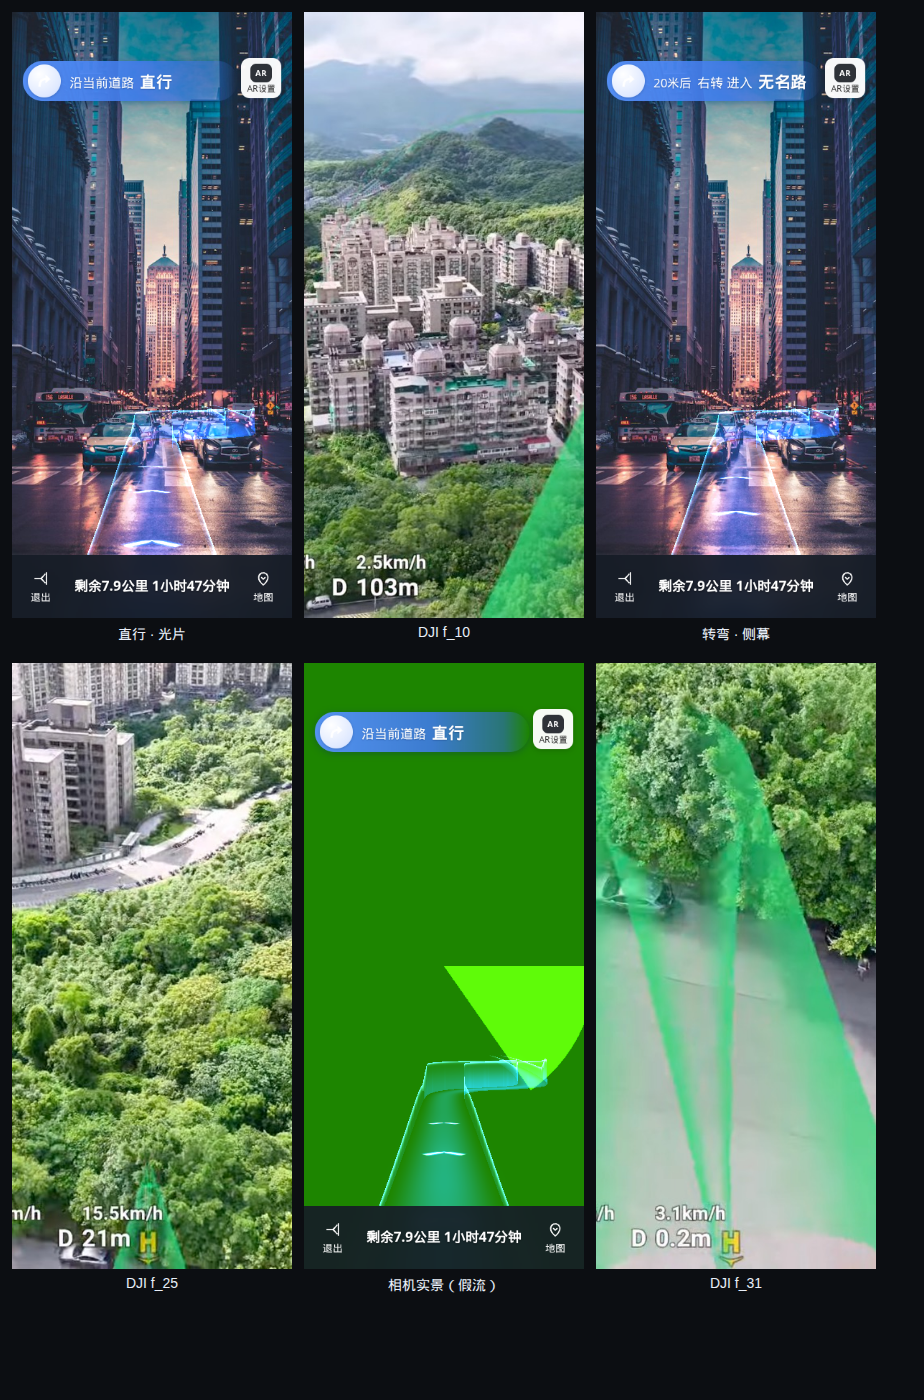
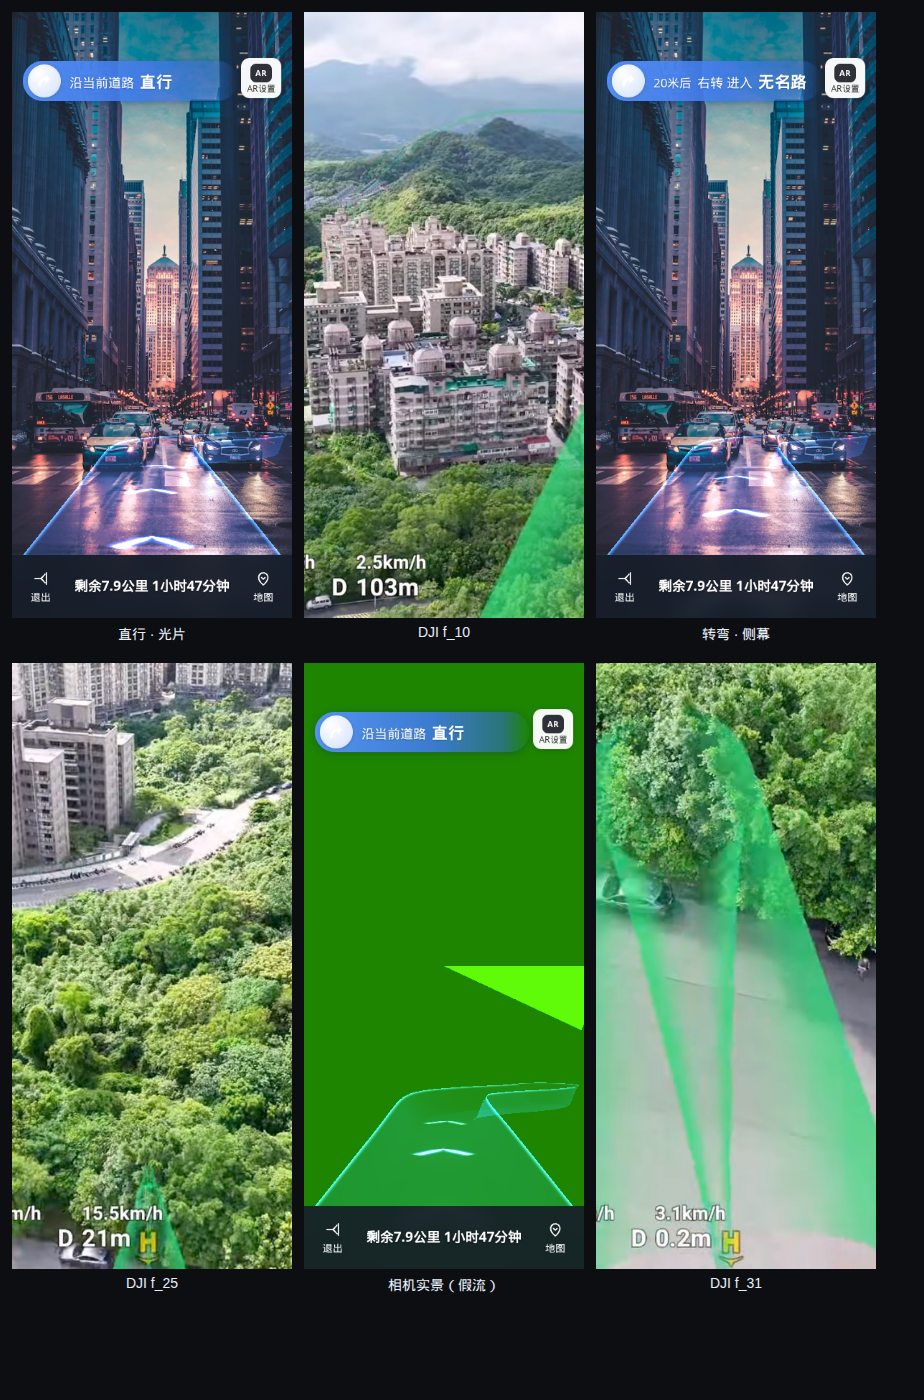
redo7: turn the route into a rounded light channel
Replace the flat ribbon with a shallow U-section tube, wide at the bottom of the frame and closed by a rounded cap where it bends into the cross street. Chevron tips open at about 85 degrees so they read as arrows, not dashes.

Changed region(s): [[0.3333, 0.6757, 0.6364, 0.86], [0.6667, 0.2764, 0.9394, 0.3993], [0.0303, 0.2764, 0.303, 0.3993]]

diff --git a/src/shader.ts b/src/shader.ts
@@ -10,29 +10,23 @@
 import * as THREE from 'three'
 
 const vert = /* glsl */ `
-  attribute float aTurn;
+  attribute float aRim;
   uniform float uReveal;
   varying vec2 vUv;
   varying vec3 vWorldPos;
+  varying vec3 vNormal;
   varying float vDist;
-  varying float vFace;
-  varying float vTurn;
+  varying float vRim;
 
   void main() {
     vUv = uv;
-    vTurn = aTurn;
+    vRim = aRim;
     vec3 p = position;
-    float reveal = clamp(uReveal * 1.3 - vUv.x * 0.3, 0.0, 1.0);
-    // 近处把光幕压矮，避免贴着镜头的侧幕在屏幕上摊成一根粗管；
-    // 走到转弯（十几米外）才升到完整高度。
-    vec4 wp0 = modelMatrix * vec4(position, 1.0);
-    float dist0 = length(cameraPosition - wp0.xyz);
-    float rise = smoothstep(3.5, 14.0, dist0);
-    p.y *= reveal * mix(0.2, 1.0, rise);
+    float reveal = clamp(uReveal * 1.25 - vUv.x * 0.25, 0.0, 1.0);
+    p.y *= reveal;
     vec4 wp = modelMatrix * vec4(p, 1.0);
     vWorldPos = wp.xyz;
-    vec3 n = normalize(mat3(modelMatrix) * normal);
-    vFace = abs(dot(n, normalize(cameraPosition - wp.xyz)));
+    vNormal = normalize(mat3(modelMatrix) * normal);
     vec4 mv = viewMatrix * wp;
     vDist = -mv.z;
     gl_Position = projectionMatrix * mv;
@@ -46,92 +40,33 @@ const frag = /* glsl */ `
   uniform float uOpacity;
   uniform float uTime;
   uniform float uFlowSpeed;
-  uniform float uScanLines;
-  uniform float uReveal;
-  uniform float uMode;
   varying vec2 vUv;
   varying vec3 vWorldPos;
+  varying vec3 vNormal;
   varying float vDist;
-  varying float vFace;
-  varying float vTurn;
-
-  float hash(float n) { return fract(sin(n * 127.1) * 43758.5453); }
-
-  // 沿程：转弯那一段仍保持接近 1，只有最远端收到 0
-  float routeFade(float along, float dist) {
-    float k = mix(1.0, 0.35, smoothstep(0.62, 0.9, along));
-    k *= 1.0 - smoothstep(0.9, 1.0, along);
-    k *= smoothstep(0.9, 3.2, dist);
-    return k;
-  }
+  varying float vRim;
 
   void main() {
-    float fade = routeFade(vUv.x, vDist);
-    float speed = max(uFlowSpeed, 0.25);
-    // 沿路线向前的柔光脉冲（只加亮，没有暗带）
-    float pulse = fract(vUv.x * 3.0 - uTime / speed);
-    pulse = smoothstep(0.0, 0.10, pulse) * smoothstep(0.32, 0.10, pulse);
-    pulse *= smoothstep(3.0, 6.5, vDist);
+    float fade = mix(1.0, 0.62, smoothstep(0.5, 0.9, vUv.x));
+    fade *= smoothstep(0.45, 2.2, vDist);
+    vec3 N = normalize(vNormal);
+    vec3 V = normalize(cameraPosition - vWorldPos);
+    float fres = pow(1.0 - clamp(abs(dot(N, V)), 0.0, 1.0), 1.7);
+    float body = 0.18 * (0.58 + 0.75 * fres) * fade * uOpacity;
+    vec3 col = mix(uColor, uFarColor, clamp(vUv.x * 0.4 + fres * 0.06, 0.0, 1.0));
 
-    vec3 nearCol = uColor;
-    vec3 farCol = uFarColor;
-    vec3 added;
-    float a;
+    float fw = max(fwidth(vRim), 1e-4);
+    float px = (1.0 - vRim) / fw;
+    float farT = smoothstep(3.0, 26.0, vDist);
+    float corePx = mix(1.7, 0.75, farT);
+    float line = exp(-0.5 * (px / corePx) * (px / corePx));
+    line *= smoothstep(0.4, 0.9, vRim);
+    float lineI = line * 0.78 * fade * uOpacity;
+    vec3 lineCol = mix(uColor, vec3(0.42, 0.80, 1.0), 0.62);
 
-    if (uMode < 0.5) {
-      // ===== 地面光带：均匀浅填充，两侧软落到 0，没有硬边 =====
-      float across = abs(vUv.y - 0.5) * 2.0;
-      float feather = pow(max(0.5 + 0.5 * cos(across * 3.14159265), 0.0), 0.72);
-      float body = 0.34 * feather * fade * uOpacity;
-      // 近端大约再亮 30%，远处回到设计强度
-      body *= mix(1.30, 1.0, smoothstep(5.5, 13.0, vDist));
-      body += pulse * 0.06 * feather * fade * uOpacity;
-      vec3 col = mix(nearCol, farCol, clamp(vUv.x * 0.4, 0.0, 1.0));
-      added = col * body;
-      a = body;
-    } else {
-      // ===== 侧光幕 =====
-      // 贴地约 0.45 → 顶边约 0.07，转弯处这就是正面看见的光片
-      float t = smoothstep(0.0, 1.0, vUv.y);
-      float bodyI = mix(0.45, 0.07, t);
-
-      // 很淡的竖向纤维（沿高度不变、沿路线疏密变化），像一层光纱
-      float cells = mix(36.0, 80.0, clamp(uScanLines / 18.0, 0.0, 1.0));
-      float su = vUv.x * cells;
-      float id = floor(su);
-      float f = fract(su);
-      float n = hash(id);
-      float w = mix(0.10, 0.34, n);
-      float fiber = smoothstep(0.0, w * 0.5, f) * smoothstep(w, w * 0.45, f);
-      bodyI *= mix(0.88, 1.0, fiber);
-
-      // 顺着看只留一窄条，避免贴镜头摊成粗管；转弯（vTurn）用完整 0.45
-      float face = smoothstep(0.04, 0.4, vFace);
-      float faceK = mix(0.22, 1.0, face);
-      faceK = max(faceK, smoothstep(0.12, 0.55, vTurn));
-      bodyI *= faceK;
-      bodyI *= fade * uOpacity;
-      bodyI += pulse * 0.05 * (1.0 - t) * fade * uOpacity;
-
-      // 顶边：屏幕空间 2~3px（近）收到更细（远），亮青白 + 软辉光
-      float fw = max(fwidth(vUv.y), 1e-4);
-      float px = (1.0 - vUv.y) / fw;
-      float farT = smoothstep(4.0, 48.0, vDist);
-      float corePx = mix(1.25, 0.42, farT);
-      float core = exp(-0.5 * (px / corePx) * (px / corePx));
-      float glowPx = corePx * 2.2;
-      float glow = exp(-0.5 * (px / max(glowPx, 0.8)) * (px / max(glowPx, 0.8)));
-      float lineI = (core * 0.82 + glow * 0.16) * fade * uOpacity;
-      lineI *= 1.0 + pulse * 0.18;
-
-      vec3 bodyCol = mix(nearCol, farCol, t * 0.25 + vUv.x * 0.2);
-      // 顶边是浅青蓝，不往白色靠
-      vec3 lineCol = mix(nearCol, vec3(0.45, 0.82, 1.0), 0.72);
-      added = bodyCol * bodyI + lineCol * lineI;
-      a = bodyI + lineI;
-    }
-
+    float a = body + lineI;
     if (a < 0.004) discard;
+    vec3 added = col * body + lineCol * lineI;
     gl_FragColor = vec4(added / max(a, 1e-4), clamp(a, 0.0, 1.0));
   }
 `

diff --git a/src/route.ts b/src/route.ts
@@ -139,10 +139,10 @@ export function routeTurnFactors(geo: RouteGeometry): number[] {
   return held
 }
 
-/** 贴地 V 的尺寸。开口角约 105°，臂宽由着色器按宽度的 0.25 来画。 */
+/** 贴地 V 的尺寸。开口角约 85°，尖一些，避免看成一撇。 */
 export function chevronDimensions(bandWidth: number): { width: number; length: number; planeW: number; planeL: number } {
   const width = bandWidth * 0.5
-  const opening = (105 * Math.PI) / 180
+  const opening = (85 * Math.PI) / 180
   const length = width / 2 / Math.tan(opening / 2)
   const pad = width * 0.28
   return { width, length, planeW: width + pad * 2, planeL: length + pad * 2 }
@@ -217,6 +217,95 @@ export function buildRailGeometry(
   g.setAttribute('position', new THREE.BufferAttribute(positions, 3))
   g.setAttribute('uv', new THREE.BufferAttribute(uvs, 2))
   g.setAttribute('aTurn', new THREE.BufferAttribute(turns, 1))
+  g.setIndex(indices)
+  g.computeVertexNormals()
+  return g
+}
+
+/**
+ * 浅槽光通道：平底 + 两侧圆角升起的矮墙（半管 / 圆角 U），末端用向前鼓出的圆弧封口。
+ * uv.x 沿程 0→1（弧盖在最末端），uv.y 0 左沿 → 1 右沿。aRim 在墙顶缘为 1。
+ */
+export function buildChannelGeometry(geo: RouteGeometry, halfWidth: number, height: number): THREE.BufferGeometry {
+  const cols = 17
+  const positions: number[] = []
+  const uvs: number[] = []
+  const rims: number[] = []
+  const indices: number[] = []
+  const n = geo.points.length
+  const up = new THREE.Vector3(0, 1, 0)
+
+  const push = (x: number, y: number, z: number, u: number, v: number, rim: number) => {
+    positions.push(x, y, z)
+    uvs.push(u, v)
+    rims.push(rim)
+    return (positions.length / 3) - 1
+  }
+
+  // t: 0 左顶缘 → 1 右顶缘。中间贴地，两侧用 1-cos 圆角抬起，到顶缘时切线接近竖直。
+  const sampleProfile = (t: number) => {
+    const x = t * 2 - 1
+    const ax = Math.abs(x)
+    const u = THREE.MathUtils.clamp((ax - 0.52) / 0.48, 0, 1)
+    const s = u * u * (3 - 2 * u)
+    const y = height * (1 - Math.cos(s * Math.PI / 2))
+    const rim = ax > 0.94 ? (ax - 0.94) / 0.06 : 0
+    return { lat: x * halfWidth, y, rim }
+  }
+
+  const rowAt = (origin: THREE.Vector3, side: THREE.Vector3, uAlong: number) => {
+    const row: number[] = []
+    for (let j = 0; j < cols; j++) {
+      const t = j / (cols - 1)
+      const pr = sampleProfile(t)
+      const p = origin.clone().addScaledVector(side, pr.lat)
+      row.push(push(p.x, pr.y, p.z, uAlong, t, pr.rim))
+    }
+    return row
+  }
+
+  const linkRows = (a: number[], b: number[]) => {
+    for (let j = 0; j < cols - 1; j++) {
+      const a0 = a[j], a1 = a[j + 1], b0 = b[j], b1 = b[j + 1]
+      indices.push(a0, b0, a1, a1, b0, b1)
+    }
+  }
+
+  const rows: number[][] = []
+  for (let i = 0; i < n; i++) {
+    const u = (i / Math.max(1, n - 1)) * 0.9
+    rows.push(rowAt(geo.points[i], geo.sides[i], u))
+    if (i > 0) linkRows(rows[i - 1], rows[i])
+  }
+
+  // 末端圆弧盖：左顶缘绕向前方半周接到右顶缘，槽底补成半圆。
+  const end = geo.points[n - 1]
+  const side = geo.sides[n - 1].clone()
+  const forward = new THREE.Vector3().crossVectors(side, up).normalize()
+  const capSegs = 16
+  const prevRim: number[] = []
+  for (let k = 0; k <= capSegs; k++) {
+    const ang = (Math.PI * k) / capSegs
+    const dir = side.clone().multiplyScalar(-Math.cos(ang)).addScaledVector(forward, Math.sin(ang))
+    const u = 0.9 + 0.1 * (k / capSegs)
+    const row: number[] = []
+    for (let j = 0; j < cols; j++) {
+      const radialT = j / (cols - 1)
+      const uRise = THREE.MathUtils.clamp((radialT - 0.52) / 0.48, 0, 1)
+      const s = uRise * uRise * (3 - 2 * uRise)
+      const y = height * (1 - Math.cos(s * Math.PI / 2))
+      const rim = radialT > 0.94 ? (radialT - 0.94) / 0.06 : 0
+      const p = end.clone().addScaledVector(dir, radialT * halfWidth)
+      row.push(push(p.x, y, p.z, u, radialT, rim))
+    }
+    if (k > 0) linkRows(prevRim, row)
+    for (let j = 0; j < row.length; j++) prevRim[j] = row[j]
+  }
+
+  const g = new THREE.BufferGeometry()
+  g.setAttribute('position', new THREE.Float32BufferAttribute(positions, 3))
+  g.setAttribute('uv', new THREE.Float32BufferAttribute(uvs, 2))
+  g.setAttribute('aRim', new THREE.Float32BufferAttribute(rims, 1))
   g.setIndex(indices)
   g.computeVertexNormals()
   return g

diff --git a/src/core.ts b/src/core.ts
@@ -17,14 +17,13 @@ import {
 import {
   normalizeRoute,
   buildRouteGeometry,
-  buildBandGeometry,
-  buildRailGeometry,
+  buildChannelGeometry,
   buildGroundGridSegments,
   pointAtDistance,
   chevronDimensions,
   type RouteGeometry,
 } from './route'
-import { createBandMaterial, createChevronMaterial, createRailMaterial } from './shader'
+import { createBandMaterial, createChevronMaterial } from './shader'
 
 const css = String.raw
 
@@ -387,34 +386,11 @@ export class NaviArrowCore {
         scanLines: this.params.scanLines,
       })
     }
-    this.bandMesh = new THREE.Mesh(buildBandGeometry(this.routeGeo, halfW), this.bandMat)
+    const wallH = Math.min(0.6, Math.max(0.4, this.params.railHeight || 0.55))
+    this.bandMesh = new THREE.Mesh(buildChannelGeometry(this.routeGeo, halfW, wallH), this.bandMat)
     this.bandMesh.frustumCulled = false
     this.bandMesh.renderOrder = 1
     this.scene.add(this.bandMesh)
-
-    // 2. 两条低矮侧光幕（顶边细线在着色器里，不再画地面粗管）
-    this.railMesh.forEach((m) => {
-      this.scene.remove(m)
-      m.geometry.dispose()
-    })
-    if (!this.railMat) {
-      this.railMat = createRailMaterial({
-        color: this.theme.primary,
-        farColor: this.theme.highlight,
-        opacity: this.params.opacity,
-        flowSpeed: this.params.flowSpeed,
-      })
-    }
-    this.railMesh = ([-1, 1] as const).map((side) => {
-      const m = new THREE.Mesh(
-        buildRailGeometry(this.routeGeo!, halfW, this.params.railHeight, side, 1.0),
-        this.railMat,
-      )
-      m.frustumCulled = false
-      m.renderOrder = 2
-      this.scene.add(m)
-      return m
-    })
 
     // 3. 贴地软箭头（带宽变化时一起重做，保证宽度约为一半）
     if (this.opts.showChevrons !== false) this.rebuildChevrons()

diff --git a/tests/route.test.ts b/tests/route.test.ts
@@ -1,6 +1,6 @@
 import { describe, it, expect } from 'vitest'
 import * as THREE from 'three'
-import { normalizeRoute, buildRouteGeometry, buildBandGeometry, buildEdgeLinePoints, buildRailGeometry, pointAtDistance, routeTurnFactors } from '../src/route'
+import { normalizeRoute, buildRouteGeometry, buildBandGeometry, buildEdgeLinePoints, buildRailGeometry, buildChannelGeometry, pointAtDistance, routeTurnFactors } from '../src/route'
 
 const route = [
   [0, 0],
@@ -100,6 +100,25 @@ describe('route geometry', () => {
     }
     expect(minTop).toBeGreaterThanOrEqual(base - 1e-4)
     expect(maxY).toBeGreaterThan(base * 1.25)
+  })
+
+  it('光通道是圆角浅槽，末端弧盖鼓出路线终点', () => {
+    const g = buildRouteGeometry(normalizeRoute([[0, 0], [0, -10], [0, -20]]), 4)
+    const geo = buildChannelGeometry(g, 0.9, 0.55)
+    const pos = geo.getAttribute('position') as THREE.BufferAttribute
+    let maxY = 0
+    let minY = 99
+    let ahead = false
+    const endZ = g.points[g.points.length - 1].z
+    for (let i = 0; i < pos.count; i++) {
+      maxY = Math.max(maxY, pos.getY(i))
+      minY = Math.min(minY, pos.getY(i))
+      if (pos.getZ(i) < endZ - 0.25) ahead = true
+    }
+    expect(maxY).toBeCloseTo(0.55, 2)
+    expect(minY).toBeCloseTo(0, 2)
+    expect(ahead).toBe(true)
+    expect(geo.getAttribute('aRim')).toBeTruthy()
   })
 
   it('pointAtDistance 沿线取样并夹在范围内', () => {

diff --git a/demo/main.ts b/demo/main.ts
@@ -77,18 +77,15 @@ btnPhoto.addEventListener('click', exitCameraMode)
 const navi = createNaviArrow(document.getElementById('navi') as HTMLElement, {
   route: [
     [0, 0],
-    [0, -8],
-    [0, -14],
-    [0.15, -16.4],  // 约 18m，横幅说的「20米后」
-    [0.9, -17.8],
-    [2.4, -18.6],   // 右转进横街，这一小段正对镜头
-    [3.6, -20.4],
-    [4.4, -28],
-    [5.2, -42],
-    [5.6, -58],
+    [0, -5],
+    [0, -9],
+    [0.25, -10.6],
+    [1.15, -11.5],  // 右转，通道跟着弯
+    [2.15, -12.1],
+    [2.7, -12.7],   // 末端圆弧收口，仍留在画面里
   ],
-  curtainHeight: 0.5,
-  curtainWidth: 1.2,
+  curtainHeight: 0.55,
+  curtainWidth: 1.7,
   showChevrons: true,
   autoRender: false,
   banner: { distance: '20米后', action: '进入', road: '无名路' },

diff --git a/tests/chevron.test.ts b/tests/chevron.test.ts
@@ -26,14 +26,14 @@ function screenY(cam: THREE.PerspectiveCamera, p: THREE.Vector3): number {
 }
 
 describe('chevron direction', () => {
-  it('开口角约 100–110°，尖端在局部 +Z', () => {
+  it('开口角约 80–90°，尖端在局部 +Z', () => {
     const { width, length } = chevronDimensions(1.2)
     const { tip, left, right } = chevronLocalCorners(width, length)
     expect(tip.z).toBeGreaterThan(left.z)
     expect(tip.z).toBeGreaterThan(right.z)
     const ang = left.clone().sub(tip).angleTo(right.clone().sub(tip)) * 180 / Math.PI
-    expect(ang).toBeGreaterThan(100)
-    expect(ang).toBeLessThan(110)
+    expect(ang).toBeGreaterThan(80)
+    expect(ang).toBeLessThan(90)
   })
 
   it('投影后尖端比两翼更远、在屏幕上更高', () => {
